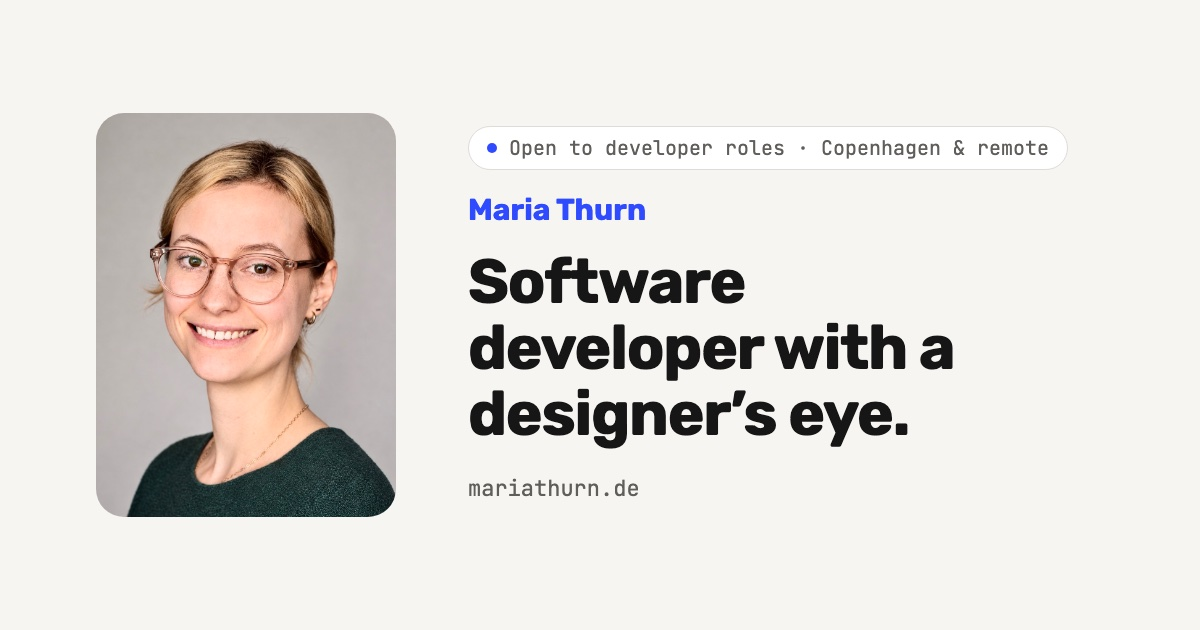
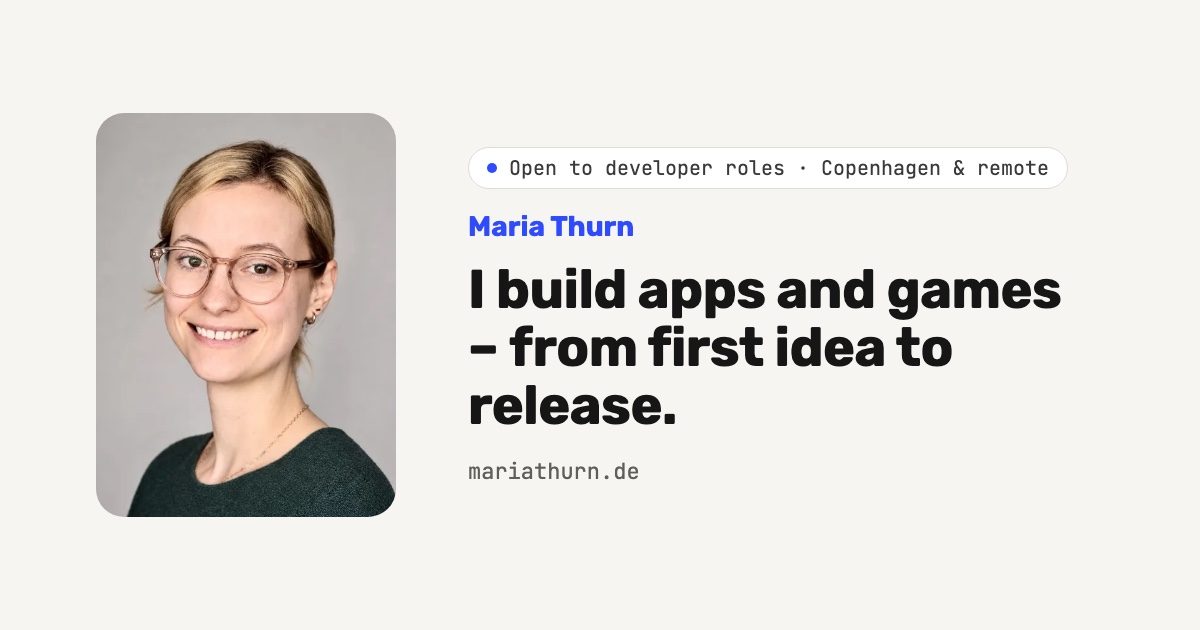
feat: new hero tagline and social preview image
- Headline: "I build apps and games – from first idea to release."
- Subheadline names the stack: React Native, TypeScript and Unity
- Regenerated og-image.jpg with the new headline, updated alt text
  and bumped the cache version to v=4 on both pages

Changed region(s): [[0.37, 0.2111, 0.8942, 0.7841]]

diff --git a/src/App.tsx b/src/App.tsx
@@ -20,8 +20,8 @@ function App() {
                 <section className="container hero" aria-labelledby="hero-title">
                     <div className="hero-text">
                         <p className="status-chip">Open to developer roles · Copenhagen &amp; remote</p>
-                        <h1 id="hero-title" className="display hero-title">Software developer with a designer’s eye.</h1>
-                        <p className="lead hero-lead">I design and build mobile and web apps – from Figma mockup to working product. Based in Copenhagen.</p>
+                        <h1 id="hero-title" className="display hero-title">I build apps and games – from first idea to release.</h1>
+                        <p className="lead hero-lead">Software developer in Copenhagen working with React Native, TypeScript and Unity.</p>
                         <div className="button-row">
                             <a className="btn btn--primary" href="#work">See my projects <ArrowDown size={18} /></a>
                             <a className="btn btn--secondary" href={cv} target="_blank" rel="noopener noreferrer">Download CV</a>

diff --git a/index.html b/index.html
@@ -27,10 +27,10 @@
   <meta property="og:title" content="Maria Thurn – Software Developer">
   <meta property="og:description"
     content="Software engineer in Copenhagen with a design background. I build web apps and interactive experiences with React, TypeScript and Unity.">
-  <meta property="og:image" content="https://mariathurn.de/og-image.jpg?v=3">
+  <meta property="og:image" content="https://mariathurn.de/og-image.jpg?v=4">
   <meta property="og:image:width" content="1200">
   <meta property="og:image:height" content="630">
-  <meta property="og:image:alt" content="Maria Thurn – Software developer with a designer’s eye. Open to developer roles in Copenhagen and remote.">
+  <meta property="og:image:alt" content="Maria Thurn: I build apps and games – from first idea to release. Open to developer roles in Copenhagen and remote.">
   <meta name="twitter:card" content="summary_large_image">
 
   <script type="application/ld+json">

diff --git a/work/schafi/index.html b/work/schafi/index.html
@@ -25,7 +25,7 @@
   <meta property="og:title" content="Schafi – Schafkopf for everyone">
   <meta property="og:description"
     content="Case study: the Bavarian card game Schafkopf, online with friends or against computer players that think ahead.">
-  <meta property="og:image" content="https://mariathurn.de/og-image.jpg?v=3">
+  <meta property="og:image" content="https://mariathurn.de/og-image.jpg?v=4">
 
   <link rel="preconnect" href="https://fonts.googleapis.com">
   <link rel="preconnect" href="https://fonts.gstatic.com" crossorigin>
